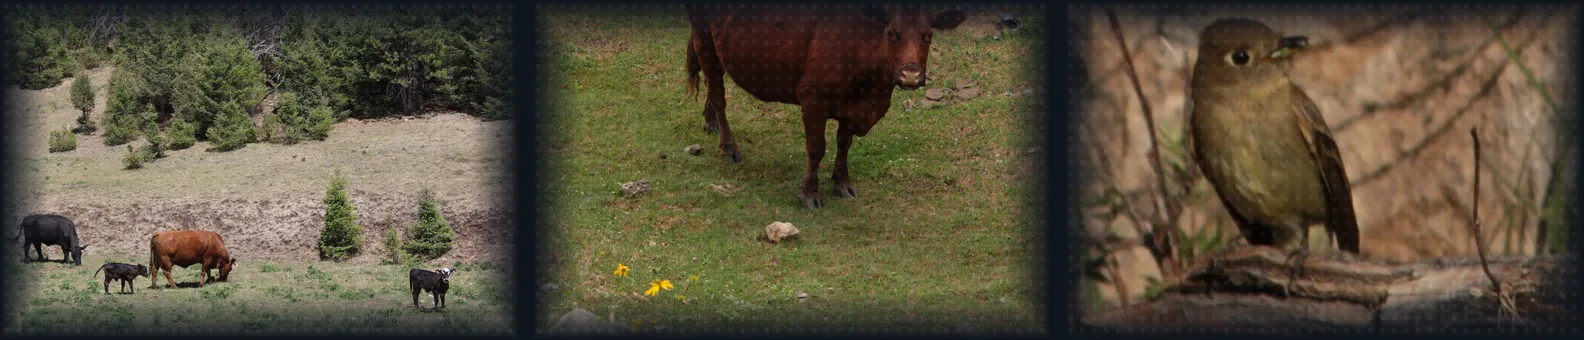
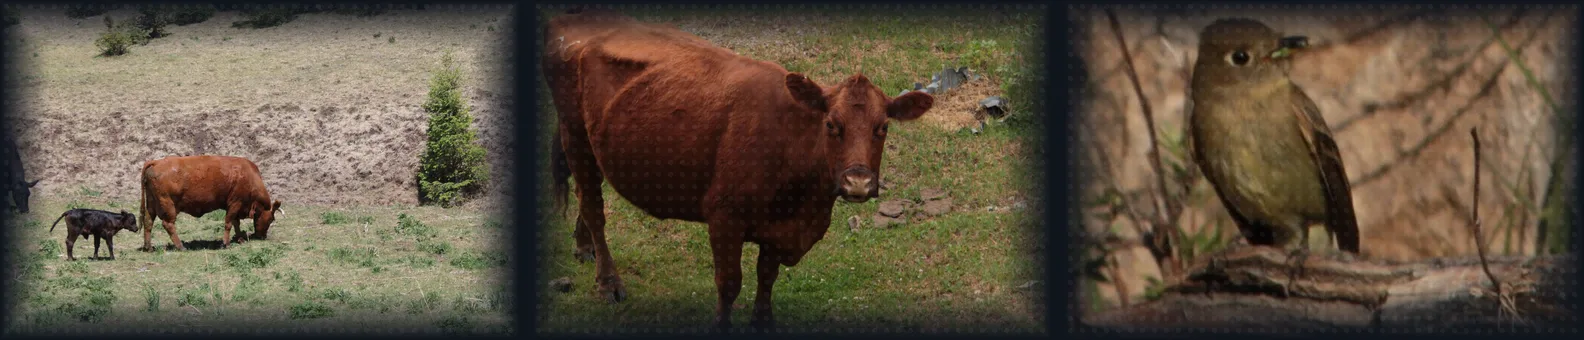
story: narrative voice, cut insider filler; focal-cut strips

diff --git a/story/index.html b/story/index.html
@@ -164,8 +164,6 @@
         border-radius: 4px;
         font-size: 0.85em;
       }
-      .status-open { color: var(--accent); font-weight: 600; }
-      .status-done { color: var(--pine); font-weight: 600; }
       .grid-2 { display: grid; grid-template-columns: 1fr 1fr; gap: 0.8rem; }
       @media (max-width: 640px) { .grid-2 { grid-template-columns: 1fr; } }
       .skip-link {
@@ -186,6 +184,14 @@
         <p class="sub">AR map + scorecard for Cloudcroft NM disc golf — Weekend Challenge: Map it entry. Updated November 1, 2026.</p>
       </header>
       <main id="main">
+        <p>
+          On November 1 I walked the Cloudcroft Community course with a phone,
+          a field guide, and eight steps per hole. I came home with 21 averaged
+          GPS points, 15 photos, 5 panos, and the tee signs that carry the only
+          par numbers this course publishes. This page is what that field day
+          turned into: a scorecard that fills in hole by hole, and the recipe
+          so anyone can map their own course the same way.
+        </p>
         <div class="cta-row">
           <a href="/disc-golf/">Open the live map</a>
           <a class="ghost" href="/disc-golf/walk.html">3D walkthrough</a>
@@ -261,19 +267,6 @@
 # tiki: byron-ligon-tiki.json (0 surveyed rows, 6 survey points)</code></pre>
         </section>
 
-        <section class="card" aria-labelledby="h-criteria">
-          <h2 id="h-criteria">How it maps to the judging criteria</h2>
-          <table>
-            <thead><tr><th scope="col">Criterion</th><th scope="col">Evidence</th></tr></thead>
-            <tbody>
-              <tr><td>Technical innovation</td><td>Plays-like distance from 3DEP elevation fused with ground-truth tee/basket GPS; per-hole geofences for AR overlays; 360-pano VR walkthrough of a real mountain course.</td></tr>
-              <tr><td>Craft and execution</td><td>Live on AWS behind CloudFront: Location Service tiles, Cognito guest auth shared by web and Android, Rust ARM64 lambdas, DynamoDB scorecard. Map opens fast, click/zoom per hole.</td></tr>
-              <tr><td>Usefulness and impact</td><td>Players get distances, plays-like yardage, trail crossings, a pocket scorecard. Builders get the reusable pattern — every ingest script documented, five steps to map any course.</td></tr>
-              <tr><td>Creativity and storytelling</td><td>Haller's chainsaw-built course, the 39-foot Tiki opener vs 80-foot Community elevation swings — told hole by hole, on the map and in the demo video.</td></tr>
-            </tbody>
-          </table>
-        </section>
-
         <section class="card" aria-labelledby="h-services">
           <h2 id="h-services">AWS services used and why</h2>
           <table>
@@ -289,18 +282,16 @@
           </table>
         </section>
 
-        <section class="card" aria-labelledby="h-check">
-          <h2 id="h-check">Hackathon entry checklist</h2>
-          <table>
-            <thead><tr><th scope="col">Requirement</th><th scope="col">State</th></tr></thead>
-            <tbody>
-              <tr><td>Live map, publicly reachable on AWS</td><td><span class="status-done">Live</span> — <a href="/disc-golf/">bryanchasko.com/disc-golf/</a></td></tr>
-              <tr><td>3D walkthrough with VR toggle</td><td><span class="status-done">Live</span> — <a href="/disc-golf/walk.html">walk.html</a></td></tr>
-              <tr><td>Written project</td><td><span class="status-done">This page</span>, plus the Builder Center post</td></tr>
-              <tr><td>Demo video under 3 minutes</td><td><span class="status-open">Recording next</span> — script covers town, map tour, scorecard round, AR overlay, the pattern</td></tr>
-              <tr><td>Code</td><td>Private repo; the reusable pattern is the <a href="/disc-golf/how-this-works/">how-this-works writeup</a></td></tr>
-            </tbody>
-          </table>
+        <section class="card" aria-labelledby="h-status">
+          <h2 id="h-status">What is live, what is next</h2>
+          <p>
+            The <a href="/disc-golf/">map and scorecard</a> are live, as is the
+            <a href="/disc-golf/walk.html">3D walkthrough</a>. The repo stays
+            private; the reusable pattern is the
+            <a href="/disc-golf/how-this-works/">how-this-works writeup</a>.
+            Still to come: the under-3-minute demo video, then the Builder Center
+            project post.
+          </p>
           <figure>
             <img src="assets/walkthrough-hero.png" alt="3D walkthrough of the courses from orbit on 1-meter terrain" loading="lazy" />
             <figcaption>From orbit — pins, trail ribbons, 1-meter terrain under NAIP imagery.</figcaption>
@@ -309,16 +300,12 @@
             <img src="assets/kiosk.jpg" alt="Course kiosk with posted layout" loading="lazy" />
             <figcaption>Where every round starts — the course kiosk.</figcaption>
           </figure>
-        </section>
-
-        <section class="card" aria-labelledby="h-status">
-          <h2 id="h-status">Status</h2>
           <p>
-            Day-two build. Course anchors are geocoded, elevation comes from the
-            USGS 3DEP 1-meter DEM, trails from OpenStreetMap, imagery from NAIP
-            2022. Community holes 1–2 carry ground pins; per-hole tee and basket
-            pins for the rest land with the next survey — then AR overlays,
-            plays-like distances, and per-hole geofences switch on.
+            Day-two build underneath: anchors are geocoded, elevation comes from
+            the USGS 3DEP 1-meter DEM, trails from OpenStreetMap, imagery from NAIP
+            2022. Community holes 1–2 carry ground pins; the rest land with the
+            next survey — then AR overlays, plays-like distances, and per-hole
+            geofences switch on.
           </p>
         </section>
       </main>
